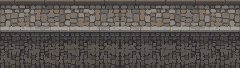
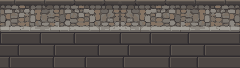
Downtown audit art, built by rule: flat granite quay courses, drain arch, bridge pier, boat, lantern bracket, rim bollard
Claude-Session: https://claude.ai/code/session_01XkeHChtsnoGGeU7Sn4FRyE

Changed region(s): [[0.0, 0.4706, 1.0, 1.0], [0.3208, 0.7059, 0.35, 0.7353]]

diff --git a/tools/build_dt_audit.py b/tools/build_dt_audit.py
@@ -1,0 +1,232 @@
+#!/usr/bin/env python3
+"""tools/build_dt_audit.py: the Downtown (tall) audit fixes of 6 Nov evening, BUILT by rule (art/dt-audit-06nov,
+0 credits). Every colour is the street's own (town_ground.png's quay and kerb greys) or from art/palettes/downtown.gpl
+(the sample screen's granite, steel, green and pine). No resampling, binary alpha.
+
+  town_ground.png        240 x 68  rows 0-31 (the pavement's back edge, the cobbles, the kerb) kept pixel for pixel
+                                   from the old file (art/source/dt_audit/town_ground_old.png); rows 32-67, the quay wall
+                                   under the kerb, rebuilt as flat granite courses: 3 courses of 12 rows (a bed joint, a
+                                   lit top row, 9 face rows, a shade row), blocks 26-46 px long in running bond, a lit
+                                   left edge and a shaded right edge on every block, two face tones by block. It was a
+                                   mirror-symmetric blotchy noise (the audit: "purple noise"). Wraps at x 240.
+  town_quaydrain.png      20 x 22  decoration in the quay wall (arthooks.lua H.drawQuayDrains): a drain arch with a
+                                   granite voussoir ring, a dark opening and an iron grate (3 bars, 1 cross bar), on a
+                                   sill stone. Where the front bollards stood (their tops read as black domes).
+  town_bridge_pier.png    14 x 113 decoration (H.drawBridgePiers): the footbridge's abutment, a granite pier from the
+                                   arch's foot (y 311) to the quay (y 424): an impost cap, coursed shaft (12 px), plinth.
+  town_punt.png           52 x 14  play, outlined (scene.lua PARASOL over water; it carries the parasol Pepper hops on):
+                                   a moored green market boat; the parasol's pole stands in it, not in the water.
+  town_lantern_bracket.png 18 x 12 back, faded as the lamp (stage.lua, a lamp on a ledge): a wall plate, an iron arm and a scroll
+                                   brace in the lamp post's own iron; the approved lamp's lantern (rows 0-26 of
+                                   lamp_post.png, not changed) hangs from its hook.
+
+  python3 -I tools/build_dt_audit.py             write them all (riverwalk/art/scene/)
+  python3 -I tools/build_dt_audit.py --check     fail if a file on disk differs from the build
+  python3 -I tools/build_dt_audit.py --sheet P   all pieces at 5x on one sheet
+"""
+import os, sys, argparse
+import numpy as np
+from PIL import Image
+
+ROOT = os.path.dirname(os.path.dirname(os.path.abspath(__file__)))
+OUT = os.path.join(ROOT, "riverwalk", "art", "scene")
+SRC = os.path.join(ROOT, "art", "source", "dt_audit")
+
+C = {
+    # the quay wall and kerb: town_ground.png's own greys (the Look's ground grade turns them blue-violet)
+    "qj": (47, 43, 47), "qs": (60, 56, 56), "qa": (72, 66, 64), "qb": (78, 72, 69), "ql": (94, 87, 81),
+    "k1": (161, 158, 151), "k2": (141, 136, 129), "k3": (108, 103, 98), "qd": (28, 26, 32),
+    # the sample screen's granite and steel (tools/build_dt_details.py)
+    "g1": (135, 130, 120), "g2": (110, 103, 95), "g3": (77, 72, 68), "g4": (58, 50, 56),
+    "s1": (132, 146, 156), "s2": (88, 100, 112), "s3": (64, 74, 86), "s4": (46, 54, 64),
+    # the lamp post's iron (lamp_post.png)
+    "i1": (88, 109, 134), "i2": (53, 69, 95), "i3": (15, 21, 40),
+    # boat: Downtown greens and pine
+    "e1": (81, 130, 109), "e2": (61, 104, 87), "e3": (48, 83, 69), "e4": (43, 74, 56),
+    "p1": (127, 90, 53), "p2": (114, 81, 53), "p3": (82, 58, 36), "p4": (52, 38, 30),
+    "ink": (18, 18, 26),
+}
+
+
+class Cv:
+    def __init__(self, w, h):
+        self.w, self.h = w, h
+        self.a = np.full((h, w), "", dtype="<U3")
+
+    def put(self, x, y, c):
+        if 0 <= x < self.w and 0 <= y < self.h: self.a[y, x] = c
+
+    def rect(self, x0, y0, x1, y1, c):                                   # inclusive
+        if x1 < x0 or y1 < y0: return
+        self.a[max(0, y0):min(self.h, y1 + 1), max(0, x0):min(self.w, x1 + 1)] = c
+
+    def outline(self):
+        """ink every opaque pixel on the shape's edge (4-neighbours), as tools/build_dt_details.py"""
+        on = self.a != ""
+        pad = np.pad(on, 1, constant_values=False)
+        edge = on & ~(pad[:-2, 1:-1] & pad[2:, 1:-1] & pad[1:-1, :-2] & pad[1:-1, 2:])
+        self.a[edge] = "ink"
+
+    def png(self, base=None):
+        im = np.zeros((self.h, self.w, 4), np.uint8) if base is None else base.copy()
+        for y in range(self.h):
+            for x in range(self.w):
+                if self.a[y, x]: im[y, x] = (*C[self.a[y, x]], 255)
+        return im
+
+
+# ---- the quay wall -------------------------------------------------------------------------------------------------
+QUAY_TOP, COURSE = 32, 12
+# block lengths per course (wrap at 240 exactly), running bond: course 1 starts at 0, 2 at 18, 3 at 9
+BLOCKS = [[40, 34, 46, 30, 38, 52], [36, 44, 30, 42, 34, 54], [44, 32, 38, 46, 28, 52]]
+STARTS = [0, 18, 9]
+
+
+def quay_rows(cv, y0, W, ncourses=3):
+    for c in range(ncourses):
+        top = y0 + c * COURSE
+        assert sum(BLOCKS[c]) == W
+        cuts, x = [], STARTS[c]
+        for i, b in enumerate(BLOCKS[c]):
+            cuts.append((x % W, b, i)); x += b
+        for (x0, b, i) in cuts:
+            face = "qa" if (i + c) % 2 == 0 else "qb"
+            for k in range(b):
+                xx = (x0 + k) % W
+                cv.rect(xx, top, xx, top, "qj")                                  # bed joint
+                cv.rect(xx, top + 1, xx, top + COURSE - 2, face)
+                cv.put(xx, top + 1, "ql")                                         # lit top row
+                cv.put(xx, top + COURSE - 1, "qs")                                # shade row
+            cv.rect(x0, top + 1, x0, top + COURSE - 1, "qj")                      # head joint
+            cv.rect((x0 + 1) % W, top + 2, (x0 + 1) % W, top + COURSE - 2, "ql")  # the lit left edge
+            cv.rect((x0 + b - 1) % W, top + 2, (x0 + b - 1) % W, top + COURSE - 2, "qs")   # shaded right edge
+
+
+def ground():
+    old = np.array(Image.open(os.path.join(SRC, "town_ground_old.png")).convert("RGBA"))
+    H, W = old.shape[:2]
+    cv = Cv(W, H)
+    quay_rows(cv, QUAY_TOP, W)
+    return cv, old
+
+
+def quaydrain():
+    cv = Cv(20, 22)
+    # voussoir ring: a half circle of radius 9 (outer) / 6 (inner) centred at (10, 10), then straight jambs to the sill
+    for y in range(22):
+        for x in range(20):
+            dx, dy = x + 0.5 - 10, y + 0.5 - 10
+            r = np.hypot(dx, dy) if dy < 0 else abs(dx)
+            if y >= 20: continue
+            if r < 6.0: cv.put(x, y, "qd")                                       # the opening
+            elif r < 9.0: cv.put(x, y, "k3" if (dx < 0 and (dy < 0 or dx < -7.5)) else "ql")
+    # joints between the voussoirs (5 stones over the arch), lit ring edge
+    for ang in (0.2, 0.4, 0.6, 0.8):
+        a = np.pi * ang
+        for rr in (6.5, 7.5, 8.5):
+            cv.put(int(10 + np.cos(np.pi - a) * rr), int(10 - np.sin(a) * rr), "qj")
+    for y in (13, 17):                                                            # joints on the jambs
+        cv.rect(1, y, 3, y, "qj"); cv.rect(16, y, 18, y, "qj")
+    # the grate: three bars and a cross bar, steel, lit left
+    for bx in (6, 9, 12):
+        cv.rect(bx, 4, bx + 1, 19, "s3"); cv.rect(bx, 4, bx, 19, "s2")
+    cv.rect(4, 12, 15, 13, "s3"); cv.rect(4, 12, 15, 12, "s2")
+    # the sill stone
+    cv.rect(0, 20, 19, 21, "k3"); cv.rect(0, 20, 19, 20, "k2"); cv.rect(0, 21, 19, 21, "qs")
+    return cv
+
+
+def bridge_pier():
+    W, H = 14, 113
+    cv = Cv(W, H)
+    cv.rect(0, 0, W - 1, H - 1, "g2")
+    cv.rect(0, 0, W - 1, 0, "g1"); cv.rect(0, 1, W - 1, 4, "g2"); cv.rect(0, 5, W - 1, 5, "g3")   # impost cap
+    cv.rect(0, 6, W - 1, 6, "g4")                                                 # its shadow line
+    # coursed shaft, 12 px courses counted up from the plinth (rows H - 7 up), a plain necking under the cap
+    k = 0
+    top = H - 7 - 12
+    while top >= 7:
+        cv.rect(1, top, W - 2, top + 10, "g2")
+        cv.rect(1, top, W - 2, top, "g1")
+        cv.rect(1, top + 10, W - 2, top + 10, "g3")
+        jx = 5 if k % 2 == 0 else 9                                              # head joint in running bond
+        cv.rect(jx, top + 1, jx, top + 9, "g3")
+        cv.rect(1, top + 11, W - 2, top + 11, "g4")                               # bed joint
+        top -= 12; k += 1
+    cv.rect(1, 7, W - 2, top + 11, "g2"); cv.rect(1, top + 11, W - 2, top + 11, "g4")   # the necking
+    cv.rect(0, 7, 0, H - 7, "g1"); cv.rect(W - 1, 7, W - 1, H - 7, "g3")        # lit left arris, shaded right
+    cv.rect(0, H - 6, W - 1, H - 6, "g1"); cv.rect(0, H - 5, W - 1, H - 2, "g2"); cv.rect(0, H - 1, W - 1, H - 1, "g3")   # plinth
+    cv.rect(W - 1, H - 5, W - 1, H - 1, "g3")
+    return cv
+
+
+def punt():
+    W, H = 52, 14
+    cv = Cv(W, H)
+    # side view, front on: a raked bow and stern (the hull narrows 1 px a row downwards), a pine gunwale, two green
+    # strakes, the waterline row darkest
+    for y in range(H):
+        inset = 0 if y < 2 else (y - 1)
+        if inset * 2 >= W: continue
+        x0, x1 = inset, W - 1 - inset
+        if y == 0: c = "p1"
+        elif y == 1: c = "p3"
+        elif y < 6: c = "e2"
+        elif y == 6: c = "e4"
+        elif y < 11: c = "e3"
+        else: c = "e4"
+        cv.rect(x0, y, x1, y, c)
+        if 2 <= y < 11:
+            cv.put(x0, y, "e1" if y < 6 else "e2")                               # lit bow edge
+            cv.put(x1, y, "e4")                                                   # the stern's shaded edge
+    cv.rect(1, 0, W - 2, 0, "p1"); cv.put(0, 0, "p2"); cv.put(W - 1, 0, "p3")
+    cv.rect(2, 2, W - 3, 2, "e1")                                                # light on the top strake
+    for x in (12, 26, 40):                                                       # thwarts' bolt heads
+        cv.put(x, 3, "p4")
+    cv.outline()                                                                 # (it carries the parasol: the
+    return cv                                                                    # play piece's 1 px ink)
+
+
+def lantern_bracket():
+    cv = Cv(18, 12)
+    cv.rect(0, 0, 3, 11, "i2"); cv.rect(1, 1, 1, 10, "i1"); cv.rect(3, 0, 3, 11, "i3")   # the wall plate
+    cv.put(2, 2, "i3"); cv.put(2, 9, "i3")                                                 # its two bolts
+    cv.rect(4, 1, 16, 3, "i2"); cv.rect(4, 2, 16, 2, "i1"); cv.rect(4, 3, 16, 3, "i3")     # the arm
+    cv.rect(17, 1, 17, 3, "i3")                                                            # its end
+    # the scroll brace: from the plate's foot curving up to the arm (a quarter circle, 1 px iron, dark under side)
+    for t in np.linspace(0, np.pi / 2, 40):
+        x = int(round(4 + 7 * (1 - np.cos(t)))); y = int(round(11 - 8 * np.sin(t)))
+        if 4 <= x <= 11 and 3 < y <= 11:
+            cv.put(x, y, "i2")
+            if y + 1 <= 11 and cv.a[y + 1, x] == "": cv.put(x, y + 1, "i3")
+    cv.rect(14, 4, 15, 5, "i2")                                                            # the hook (its edge all iron)
+    return cv
+
+
+def build():
+    g, old = ground()
+    return {"town_ground": (g, old), "town_quaydrain": (quaydrain(), None), "town_bridge_pier": (bridge_pier(), None),
+            "town_punt": (punt(), None), "town_lantern_bracket": (lantern_bracket(), None)}
+
+
+if __name__ == "__main__":
+    ap = argparse.ArgumentParser(); ap.add_argument("--check", action="store_true"); ap.add_argument("--sheet")
+    ap.add_argument("names", nargs="*")
+    o = ap.parse_args()
+    bad = 0; ims = {}
+    for n, (cv, base) in build().items():
+        if o.names and n not in o.names: continue
+        im = cv.png(base); ims[n] = im; p = os.path.join(OUT, n + ".png")
+        ncol = len({tuple(c) for c in im[im[..., 3] > 0][:, :3].tolist()})
+        if o.check:
+            ok = os.path.exists(p) and np.array_equal(np.array(Image.open(p).convert("RGBA")), im)
+            print(p, "matches the build" if ok else "DIFFERS from the build"); bad += not ok
+        else:
+            Image.fromarray(im).save(p); print(f"{n}: {im.shape[1]} x {im.shape[0]}, {ncol} colours")
+    if o.sheet:
+        z = 5; W = sum(i.shape[1] * z + 20 for i in ims.values()) + 20; H = max(i.shape[0] for i in ims.values()) * z + 40
+        sh = Image.new("RGBA", (W, H), (192, 128, 112, 255)); x = 20
+        for im in ims.values():
+            sh.alpha_composite(Image.fromarray(im).resize((im.shape[1] * z, im.shape[0] * z), Image.NEAREST), (x, H - 20 - im.shape[0] * z)); x += im.shape[1] * z + 20
+        sh.save(o.sheet)
+    sys.exit(1 if bad else 0)

diff --git a/tools/asset_qa.py b/tools/asset_qa.py
@@ -127,7 +127,11 @@ SLOTS = {"cargobike": (96, 76, 0, 0), "cargobike_pedal": (768, 76, 0, 0), "mia_t
          # the basin's wall (tools/build_dt_details.py)
          "town_front_tall1_a": (80, 432, 0, 0), "town_front_tall2_a": (88, 432, 0, 0), "town_front_tall3_a": (96, 432, 0, 0), "town_front_tall5_a": (88, 432, 0, 0), "town_front_tall6_a": (148, 432, 0, 0), "town_front_tall7_a": (148, 432, 0, 0), "town_front_tall1_b": (80, 432, 0, 0), "town_front_tall2_b": (88, 432, 0, 0), "town_front_tall3_b": (96, 432, 0, 0), "town_front_tall5_b": (88, 432, 0, 0), "town_front_tall6_b": (148, 432, 0, 0), "town_front_tall7_b": (148, 432, 0, 0), "town_front_tall1_c": (80, 432, 0, 0), "town_front_tall2_c": (88, 432, 0, 0), "town_front_tall3_c": (96, 432, 0, 0), "town_front_tall5_c": (88, 432, 0, 0), "town_front_tall6_c": (148, 432, 0, 0), "town_front_tall7_c": (148, 432, 0, 0), "town_front_tall1_d": (80, 432, 0, 0), "town_front_tall2_d": (88, 432, 0, 0), "town_front_tall3_d": (96, 432, 0, 0), "town_front_tall5_d": (88, 432, 0, 0), "town_front_tall6_d": (148, 432, 0, 0), "town_front_tall7_d": (148, 432, 0, 0), "town_front_tall1_e": (80, 432, 0, 0), "town_front_tall2_e": (88, 432, 0, 0), "town_front_tall3_e": (96, 432, 0, 0), "town_front_tall5_e": (88, 432, 0, 0), "town_front_tall6_e": (148, 432, 0, 0), "town_front_tall7_e": (148, 432, 0, 0), "town_front_tall1_f": (80, 432, 0, 0), "town_front_tall2_f": (88, 432, 0, 0), "town_front_tall3_f": (96, 432, 0, 0), "town_front_tall5_f": (88, 432, 0, 0), "town_front_tall6_f": (148, 432, 0, 0), "town_front_tall7_f": (148, 432, 0, 0), "town_drainpipe": (6, 432, 0, 0),
          "town_bridge_springer": (14, 20, 0, 0), "town_basin_wall": (10, 56, 0, 0),
-         "town_wall_lantern": (24, 42, 0, 0), "town_parasol_pier": (12, 60, 0, 0), "town_quay32": (32, 56, 0, 0)}
+         "town_wall_lantern": (24, 42, 0, 0), "town_parasol_pier": (12, 60, 0, 0), "town_quay32": (32, 56, 0, 0),
+         # art/dt-audit-06nov (tools/build_dt_audit.py): the quay wall's drain, the footbridge's piers, the parasols' boat,
+         # the wall lantern's bracket
+         "town_quaydrain": (20, 22, 0, 0), "town_bridge_pier": (14, 113, 0, 0), "town_punt": (52, 14, 0, 0),
+         "town_lantern_bracket": (18, 12, 0, 0)}
 HOOK = {"cargobike": "cargo_bike", "cargobike_pedal": "cargo_bike_pedal", "mia_throw": "girl_throw",
         "cyclist_a_84": "cyclist_adult1", "cyclist_b_84": "cyclist_adult2", "roof_gable": "town_roof_gable",
         "roof_loggia": "town_roof_loggia", "roof_gallery88": "town_roof_gallery88", "roof_gallery72": "town_roof_gallery72",
@@ -146,7 +150,8 @@ FROZEN = {"pepper"}                                               # Pepper's fil
 EXCEPT = {"cafe": {"colours"}, "gable": {"colours"}, "pavement": {"ladder"},
           "bone": {"outline"}, "bone_gold": {"outline"},                   # pickups: white, unoutlined by design
           "lamp_post": {"decor-ink"}, "town_wall_lantern": {"decor-ink"},   # (night/06nov-dt: the lamp's head on a bracket)
-          "kiosk_kaffe": {"decor-ink"}, "kiosk_glass": {"decor-ink"}}   # the approved River Walk set
+          "kiosk_kaffe": {"decor-ink"}, "kiosk_glass": {"decor-ink"},
+          "town_lantern_bracket": {"decor-ink"}}   # the approved River Walk set; (6 Nov) the lantern bracket in the lamp's iron
 
 
 # ------------------------------------------------------------------------------------------------ small tools

diff --git a/tools/build_dt_details.py b/tools/build_dt_details.py
@@ -19,7 +19,7 @@ steel and copper ramps (tools/build_dt_street.py), its reds and greens.
   town_tier.png        play, outlined (scene.lua, the TIER: 50 x 58, drawn at x0 - 1, y0 - 1): the fountain's top
                        basin, a stone dish on a coursed column and a foot (the same silhouette as before).
   town_bowl.png        play, outlined (the FOUNTAIN: 34 x 82): the lower basin's dish on its coursed column.
-  town_rim.png         play, outlined (each RIM: 18 x 18): the pool's coping posts.
+  town_rim.png         play, outlined (each RIM: 18 x 18): the basin's corner bollard (art/dt-audit-06nov: it read as a brick cube).
   town_jet.png         decoration (scene.lua drawTerrainArt; no outline): the water falling from the top tier's lip to
                        the pool, 4 frames of 6 x 88 side by side (white dashes running down a 2 px stream that curls off
                        the lip, a splash at the bottom); the left stream as drawn, the right one mirrored. Its column 5
@@ -237,11 +237,16 @@ def bowl():
 
 
 def rim():
+    # (art/dt-audit-06nov) the audit: "lone grey brick cubes" by the fountain. Each RIM is the basin's corner bollard:
+    # one granite post, no joints, a chamfered cap stone (Pepper's flat top), a shadow under the cap, a round shaft
+    # (lit left, mid, shade right), a plinth on the pavement. Same box, same 18 x 18.
     cv = Cv(18, 18)
-    cv.rect(1, 0, 16, 17, "g2"); cv.rect(0, 1, 17, 16, "g2")
-    cv.rect(1, 1, 16, 1, "g1"); cv.rect(1, 2, 16, 4, "g2"); cv.rect(1, 5, 16, 5, "g3")    # the coping stone
-    cv.rect(1, 6, 1, 16, "g1"); cv.rect(16, 6, 16, 16, "g3"); cv.rect(8, 6, 8, 11, "g3")   # two blocks under it
-    cv.rect(1, 11, 16, 11, "g3"); cv.rect(4, 12, 4, 16, "g3"); cv.rect(12, 12, 12, 16, "g3")
+    cv.rect(1, 0, 16, 5, "g2"); cv.rect(0, 1, 17, 4, "g2")                           # the cap stone, chamfered
+    cv.rect(1, 1, 16, 1, "g1"); cv.rect(1, 4, 16, 4, "g3")
+    cv.rect(2, 5, 15, 5, "g4")                                                       # the shadow under the cap
+    cv.rect(3, 6, 14, 15, "g2")                                                      # the shaft, round
+    cv.rect(3, 6, 4, 15, "g1"); cv.rect(5, 6, 5, 15, "g2"); cv.rect(12, 6, 13, 15, "g3"); cv.rect(14, 6, 14, 15, "g4")
+    cv.rect(2, 16, 15, 17, "g3"); cv.rect(2, 16, 15, 16, "g2")                       # the plinth
     cv.outline()
     return cv
 

diff --git a/tools/measure_layers.py b/tools/measure_layers.py
@@ -171,6 +171,12 @@ add([f"town_front_tall{k}_{s}" for k in (1, 2, 3, 5, 6, 7) for s in "abcdef"] + 
 add(["town_bridge_springer", "town_parasol_pier"], "dt", "play", group="Downtown")
 add(["town_basin_wall", "town_quay32"], "dt", "ground", group="Downtown")
 add(["town_wall_lantern"], "dt", "back", True, group="Downtown")
+# art/dt-audit-06nov (tools/build_dt_audit.py): the drain in the quay wall (ground), the footbridge's piers (back,
+# unfaded: drawn with the back props), the wall lantern's bracket (faded as the lamp), the parasols' boat (play, ink)
+add(["town_quaydrain"], "dt", "ground", group="Downtown")
+add(["town_bridge_pier"], "dt", "back", group="Downtown")
+add(["town_lantern_bracket"], "dt", "back", True, group="Downtown")
+add(["town_punt"], "dt", "play", group="Downtown")
 add(["town_stopsign"], "dt", "back", True, group="Downtown")        # arthooks.lua stopSign: H.img(.., true), the back fade
 add(["town_jet"], "dt", "back", group="Downtown")                  # scene.lua drawTerrainArt: decoration on her line, unfaded
 add(["pepper", "girl", "cat", "goose", "gull", "ball"], "rw", None, base=ART, group="Characters (never shaded)")
